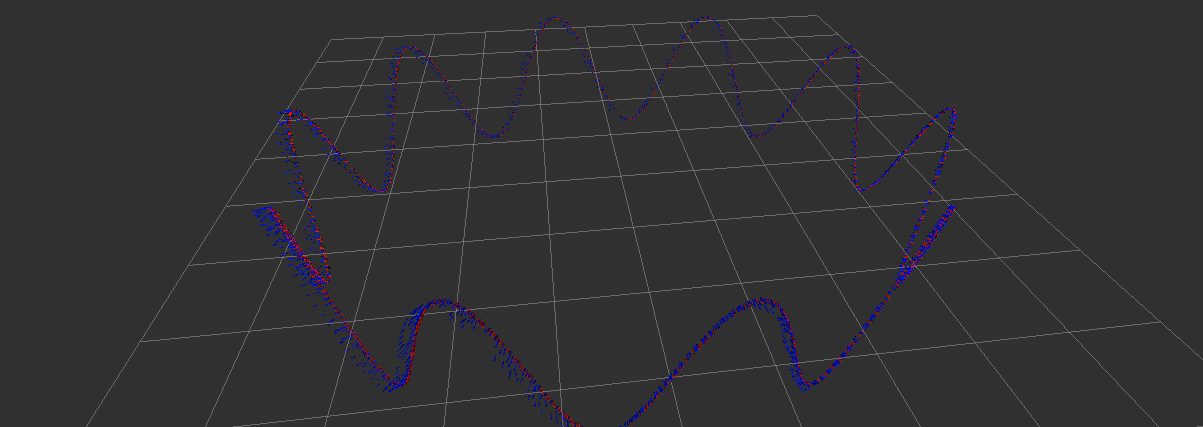
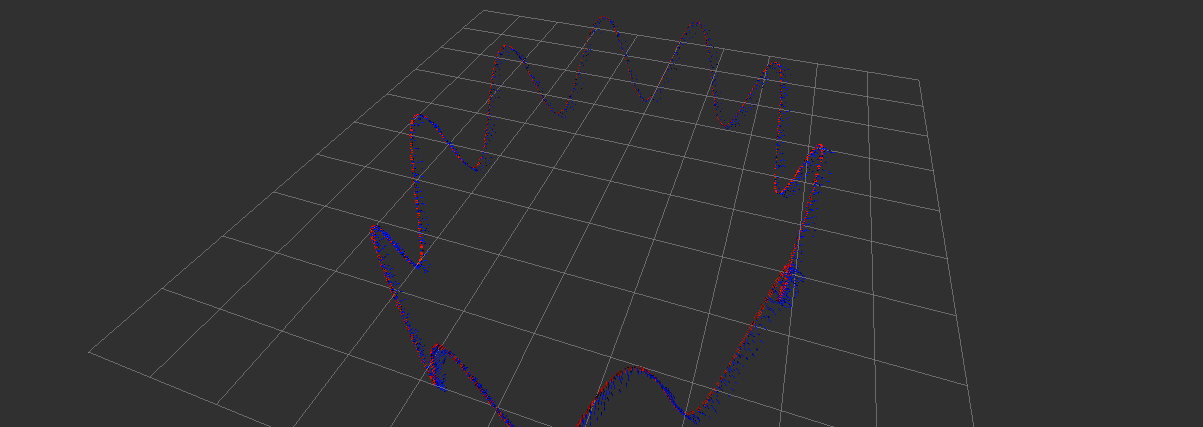
finish Assignment 03.

diff --git a/workspace/assignments/03-inertial-measurement-unit/src/imu_integration/src/estimator/activity.cpp b/workspace/assignments/03-inertial-measurement-unit/src/imu_integration/src/estimator/activity.cpp
@@ -122,7 +122,7 @@ bool Activity::UpdatePose(void) {
         // keep the latest IMU measurement for mid-value integration:
         imu_data_buff_.push_back(imu_data);
     } else {
-        #ifndef FIRST_ORDER
+        #ifdef FIRST_ORDER
         // get deltas:
         Eigen::Vector3d angular_delta; 
 
@@ -152,7 +152,7 @@ bool Activity::UpdatePose(void) {
         Eigen::Vector3d angular_delta = angular_delta_1 + angular_delta_2 + 2.0/3.0*angular_delta_1.cross(angular_delta_2);
 
         // update orientation:
-        Eigen::Matrix3d R_curr, R_prev
+        Eigen::Matrix3d R_curr, R_prev;
         UpdateOrientation(angular_delta, R_curr, R_prev);
 
         // get velocity delta:

diff --git a/workspace/assignments/03-inertial-measurement-unit/README.md b/workspace/assignments/03-inertial-measurement-unit/README.md
@@ -260,42 +260,70 @@ source install/setup.bash
 roslaunch imu_integration imu_integration.launch
 ```
 
-`角增量方法`的实现如下 [here](src/imu_integration/src/estimator/activity.cpp#L130):
+`角增量方法`的实现如下 [here](src/imu_integration/src/estimator/activity.cpp#L126):
 
 ```c++
-    IMUData &imu_data = imu_data_buff_.front();
+    // get deltas:
+    Eigen::Vector3d angular_delta; 
 
-    // get time delta:
-    double time_curr = imu_data.time;
-    double delta_t = time_curr - time_prev;
+    GetAngularDelta(1, 0, angular_delta);
 
     // update orientation:
-    Eigen::Matrix3d R = pose_.block<3, 3>(0, 0);
-    Eigen::Vector3d angular_vel_curr = imu_data.angular_velocity - angular_vel_bias_;
-    Eigen::Vector3d angular_vel_mid_value = 0.5*(angular_vel_prev + angular_vel_curr);
+    Eigen::Matrix3d R_curr, R_prev;
+    UpdateOrientation(angular_delta, R_curr, R_prev);
 
-    Eigen::Vector3d da = 0.5*delta_t*angular_vel_mid_value;
-    Eigen::Quaterniond dq(1.0, da.x(), da.y(), da.z());
-    Eigen::Quaterniond q(R);
-    q = q*dq;
-    pose_.block<3, 3>(0, 0) = R = q.normalized().toRotationMatrix();
+    // get velocity delta:
+    double delta_t;
+    Eigen::Vector3d velocity_delta;
+    GetVelocityDelta(1, 0, R_curr, R_prev, delta_t, velocity_delta);
 
     // update position:
-    Eigen::Vector3d t = pose_.block<3, 1>(0, 3);
-    Eigen::Vector3d linear_acc_curr = R*(imu_data.linear_acceleration - linear_acc_bias_) - G_;
-    Eigen::Vector3d linear_acc_mid_value = 0.5*(linear_acc_prev + linear_acc_curr);
-
-    pose_.block<3, 1>(0, 3) = t + delta_t*vel_ + 0.5*delta_t*delta_t*linear_acc_mid_value;
-    vel_ = vel_ + delta_t*linear_acc_mid_value;
+    UpdatePosition(delta_t, velocity_delta);
 
     // move forward:
-    time_prev = time_curr;
-    angular_vel_prev = angular_vel_curr;
-    linear_acc_prev = linear_acc_curr;
-
     imu_data_buff_.pop_front();
 ```
 
-在无噪声的情况下, 使用`角增量方法`, 运行`3分钟`后估计航迹与真实航迹的对比如下图. 其中红色为`Ground Truth`, 蓝色为`Estimation`. 从图中可以看出, `角增量方法`估计的航迹, 已有明显的发散.
+`等效旋转矢量方法(对角速度变化做1阶假设)`的实现如下 [here](src/imu_integration/src/estimator/activity.cpp#L146):
 
-<img src="doc/04-imu-integration--0-order.png" alt="IMU Integration, Zero Order" width="%100">
+```c++
+        // get angular deltas:
+    Eigen::Vector3d angular_delta_1, angular_delta_2;
+    GetAngularDelta(1, 0, angular_delta_1);
+    GetAngularDelta(2, 1, angular_delta_2);
+
+    // get effective rotation:
+    Eigen::Vector3d angular_delta = angular_delta_1 + angular_delta_2 + 2.0/3.0*angular_delta_1.cross(angular_delta_2);
+
+    // update orientation:
+    Eigen::Matrix3d R_curr, R_prev;
+    UpdateOrientation(angular_delta, R_curr, R_prev);
+
+    // get velocity delta:
+    double delta_t;
+    Eigen::Vector3d velocity_delta;
+    GetVelocityDelta(2, 0, R_curr, R_prev, delta_t, velocity_delta);
+
+    // update position:
+    UpdatePosition(delta_t, velocity_delta);
+
+    // move forward:
+    imu_data_buff_.pop_front();
+    imu_data_buff_.pop_front();
+```
+
+在无噪声的情况下, 使用`角增量方法`与`等效旋转矢量方法`, 运行`3分钟`后估计航迹与真实航迹的对比如下图. 其中红色为`Ground Truth`, 蓝色为`Estimation`.
+
+Zero Order                 |First Order
+:-------------------------:|:-------------------------:
+![Zero Order](doc/04-imu-integration--0-order.png)  |  ![First Order](doc/04-imu-integration--1-order.png)
+
+上述对比显示, `等效旋转矢量方法`, 在位置估计上, 精度较差, 原因在于其对位置/速度进行更新时, 步长过大.
+
+仅考虑航向跟踪时, 两种方法的对比如下图.
+
+Zero Order                 |First Order
+:-------------------------:|:-------------------------:
+![Zero Order](doc/04-imu-integration--0-order-orientation.png)  |  ![First Order](doc/04-imu-integration--1-order-orientation.png)
+
+上述对比显示, `角增量方法`与`等效旋转矢量方法`, 针对选择的运动, 在航向估计上, 性能接近.
